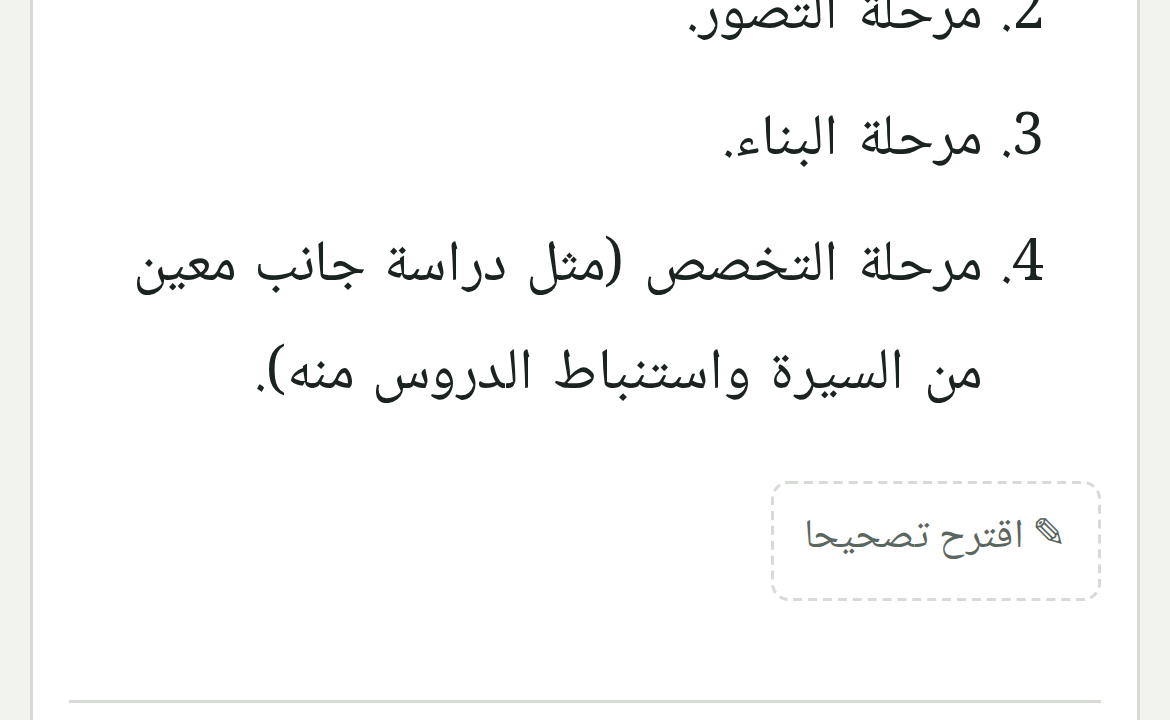
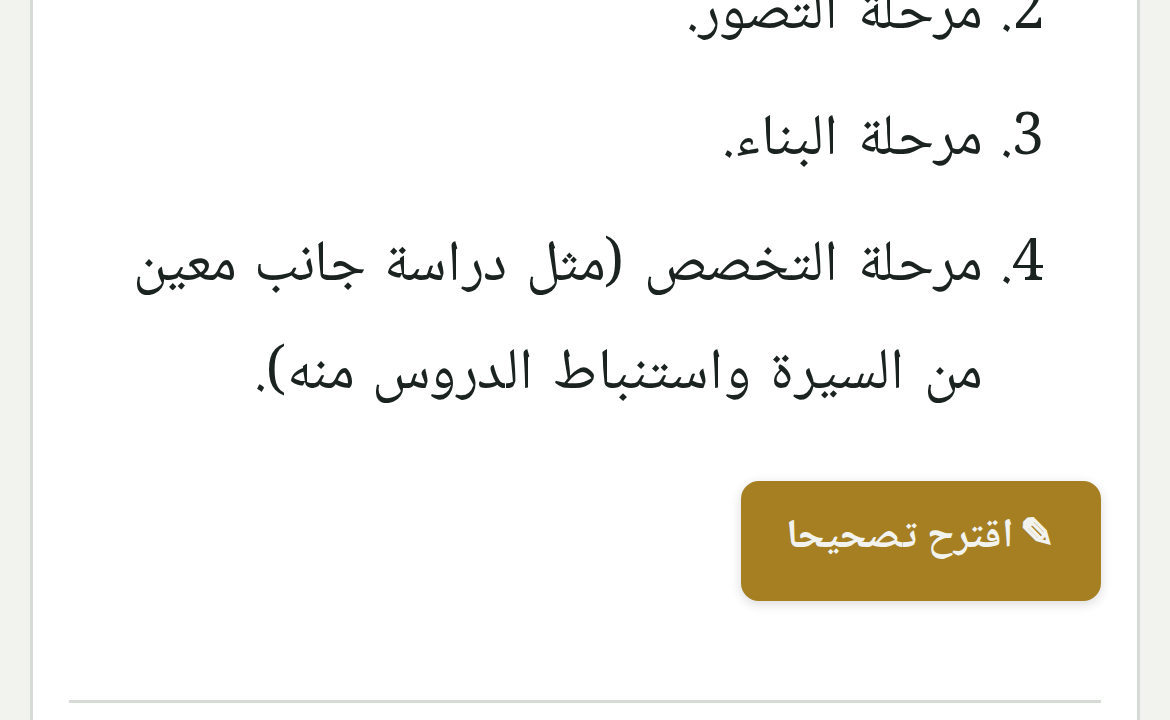
front : bouton « اقترح تصحيحا » en doré, bien visible

Changed region(s): [[0.6154, 0.6417, 0.9538, 0.8556]]

diff --git a/src/index.css b/src/index.css
@@ -413,8 +413,11 @@ button:focus-visible, input:focus-visible { outline: 2px solid var(--accent); ou
 
 /* Suggestions des élèves : bouton discret, fenêtre modale (feuille basse sur téléphone) */
 .suggest-row { margin: 10px 0 0; text-align: start; }
-.tbtn.suggest { color: var(--muted); border-style: dashed; }
-.tbtn.suggest:hover { color: var(--accent); border-color: var(--accent); }
+.tbtn.suggest {
+  color: var(--bg); background: var(--gold); border-color: var(--gold); font-weight: 700;
+  padding: 4px 14px; box-shadow: 0 1px 4px rgba(0, 0, 0, 0.15);
+}
+.tbtn.suggest:hover { filter: brightness(1.08); }
 .contrib-note { margin: 0 0 8px; }
 .modal-backdrop { position: fixed; inset: 0; background: rgba(0, 0, 0, 0.4); z-index: 40; }
 .modal {
